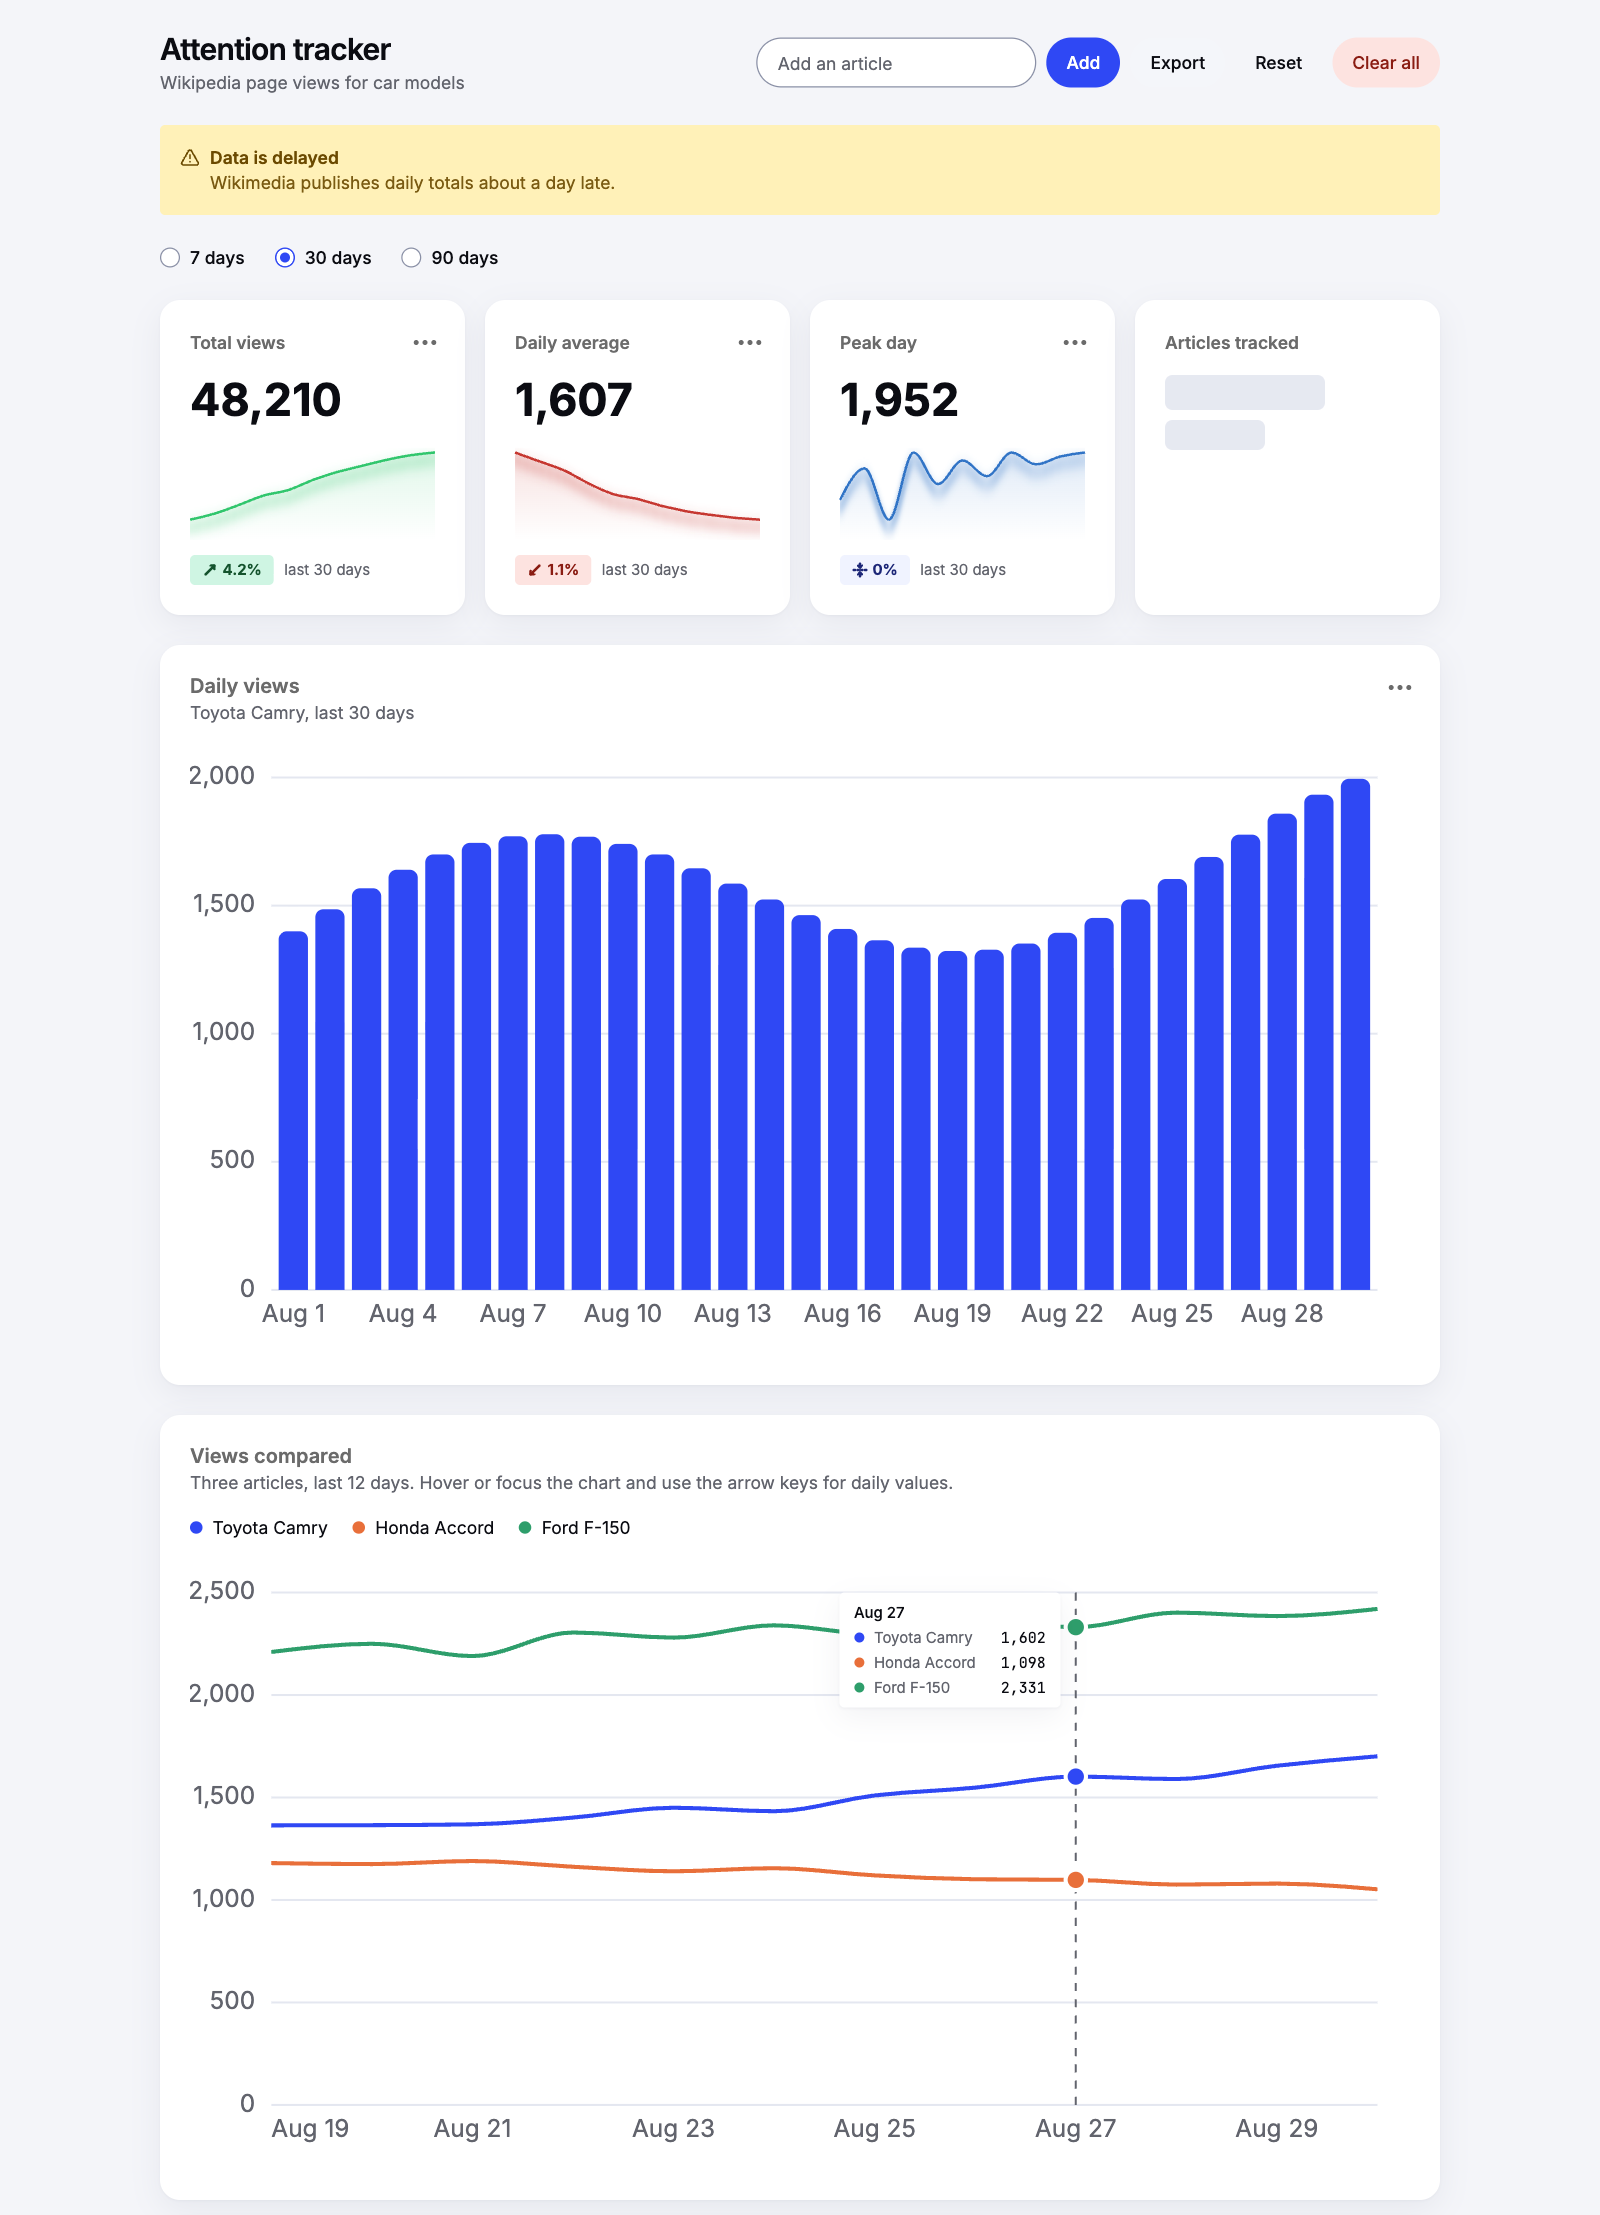
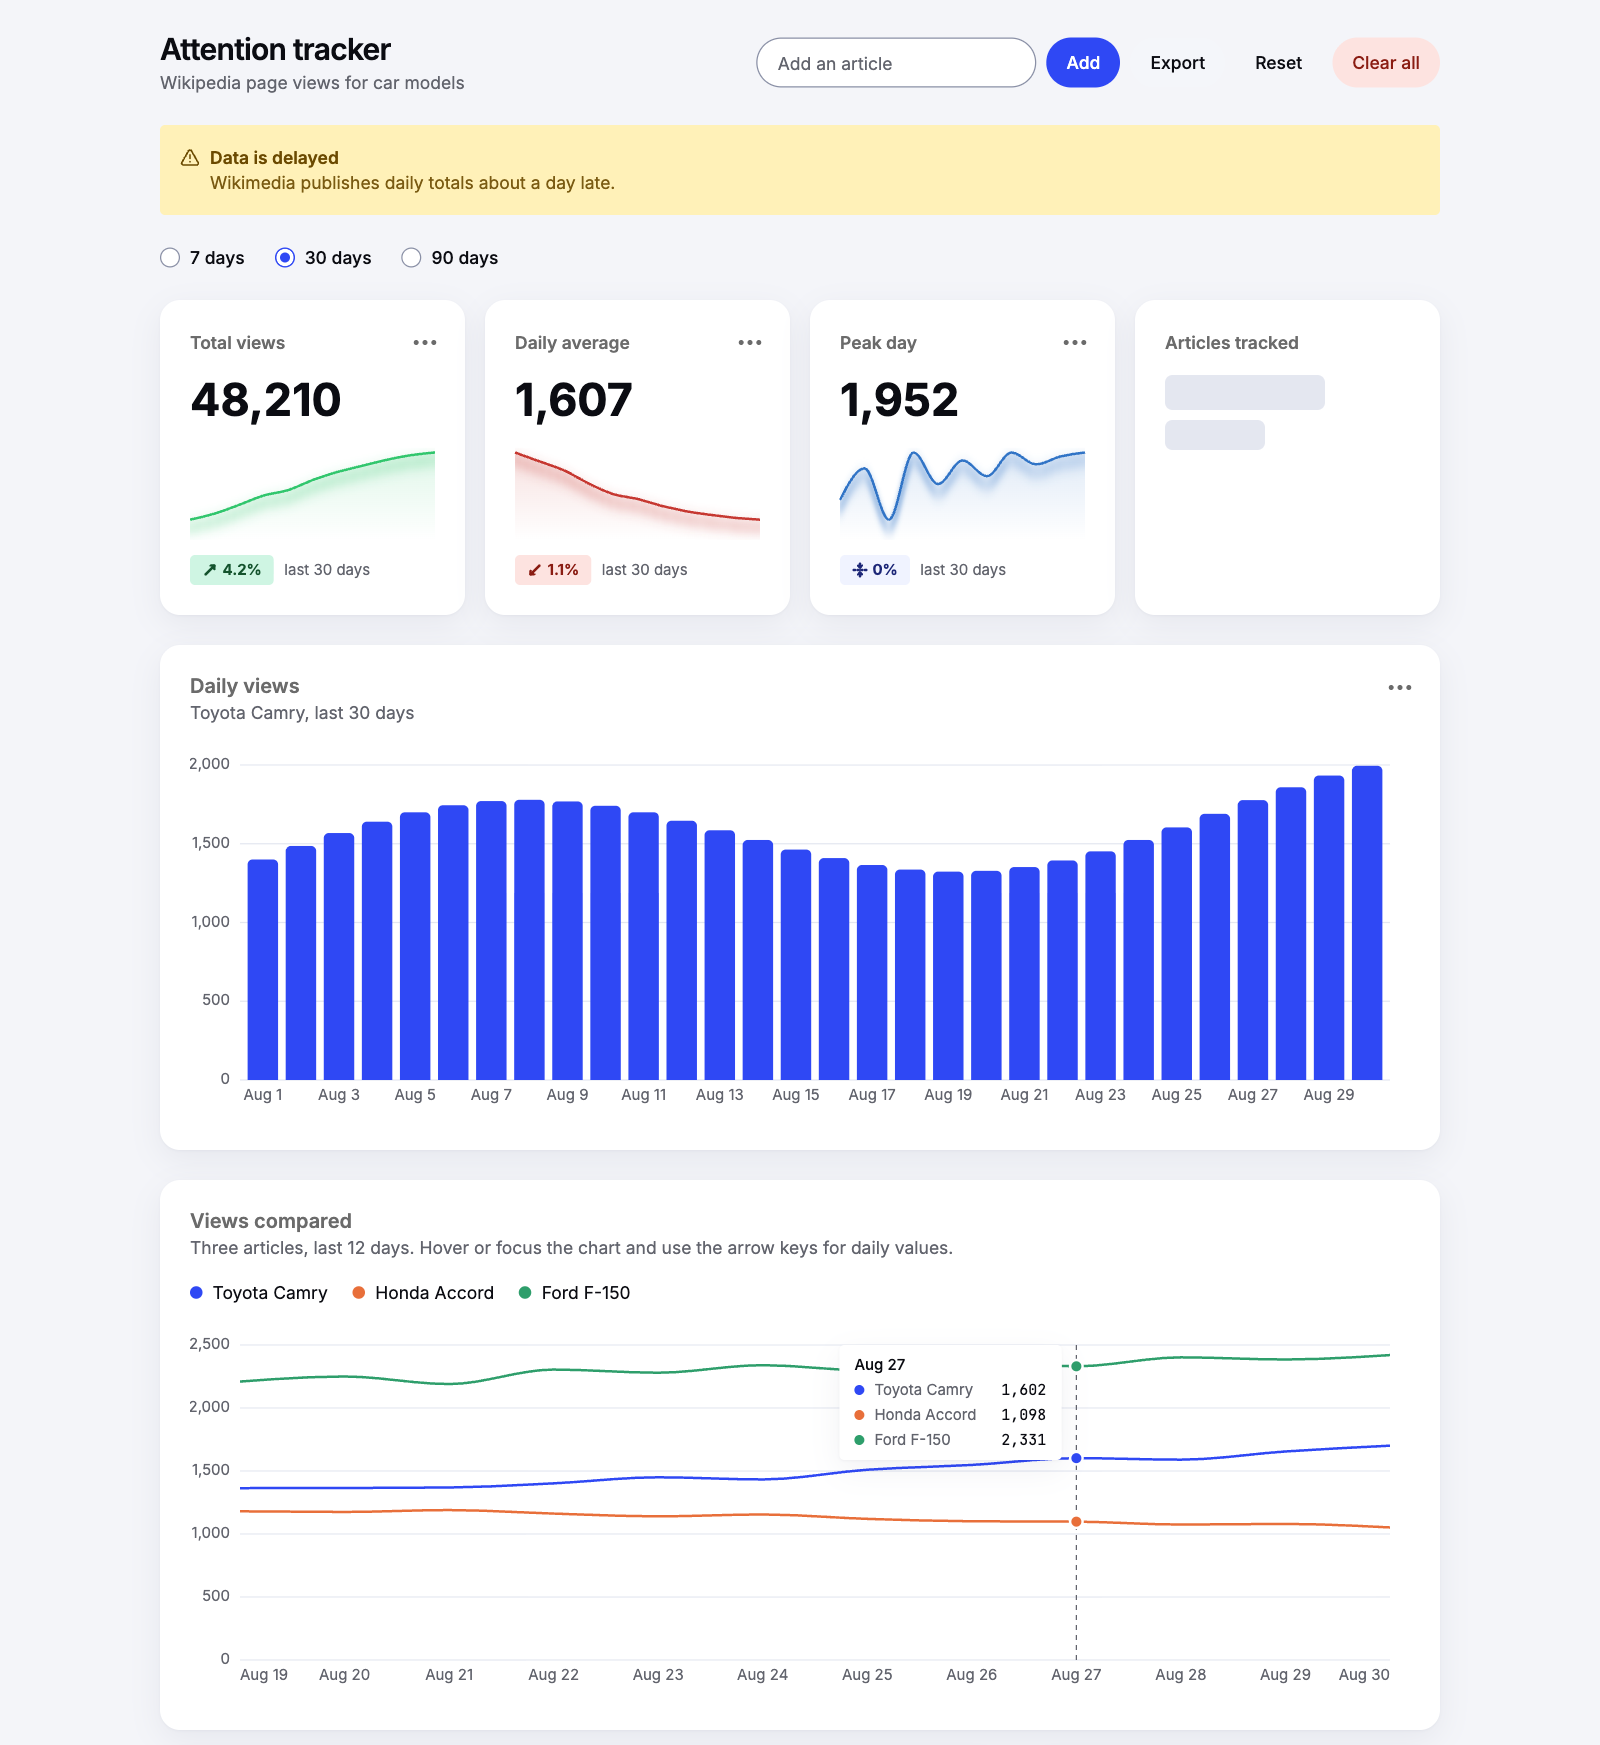
document responsive charts in the README and refresh the screenshot

diff --git a/README.md b/README.md
@@ -12,29 +12,29 @@ Built with React, TypeScript, Tailwind CSS v4, and class-variance-authority, doc
 
 ## Components
 
-| Component     | Notes                                                                                                                                                                         |
-| ------------- | ----------------------------------------------------------------------------------------------------------------------------------------------------------------------------- |
-| `Button`      | `primary`, `secondary`, `ghost`, `danger` variants, three sizes, loading state, ref forwarding                                                                                |
-| `Tabs`        | Compound component (`Tabs.List`, `Tabs.Trigger`, `Tabs.Content`) with `tablist`/`tab`/`tabpanel` roles, linked tabs and panels, arrow-key navigation, and an `activationMode` |
-| `Badge`       | Status variants for short labels                                                                                                                                              |
-| `Alert`       | Compound component (`Alert.Title`, `Alert.Description`), status icon per variant, `alert` vs `status` role by severity                                                        |
-| `Card`        | Compound component (`Card.Header`, `Card.Title`, `Card.Description`, `Card.Content`, `Card.Footer`) on the surface tokens                                                     |
-| `StatCard`    | Headline number built on `Card` and `Badge`, with an optional change (`delta`) whose direction and sentiment are separate, and an `isLoading` state                           |
-| `Table`       | Semantic table parts (`Table.Header`, `Table.Body`, `Table.Row`, `Table.Head`, `Table.Cell`, `Table.Caption`) with a scrolling container and `numeric` alignment              |
-| `Skeleton`    | Single-shape loading placeholder sized with `className`, hidden from assistive tech, animated only when motion is allowed                                                     |
-| `EmptyState`  | Compound component (`EmptyState.Icon`, `.Title`, `.Description`, `.Actions`) for "no data" and "no results" views                                                             |
-| `Input`       | Styled native text field with a forwarded ref, styled from `disabled`, `readOnly`, and `aria-invalid` instead of variants                                                     |
-| `Sparkline`   | Tiny D3-scaled line chart with a gradient area fill, gaps for missing values, and an optional accessible `label`                                                              |
-| `BarChart`    | D3-scaled bar chart with a y-axis, gridlines, thinned x labels, optional `formatValue`/`formatLabel`, and an accessible `label`                                               |
-| `LineChart`   | Several series over shared x labels, with a crosshair and tooltip on hover, arrow-key navigation, announced values, gaps for missing data, and `showPoints`                   |
-| `Combobox`    | Generic searchable select (WAI-ARIA combobox pattern) with keyboard support, filtering or async results, loading and empty states, controlled or uncontrolled                 |
-| `RadioGroup`  | One choice from a set, built on native radios, with option values inferred as a typed union                                                                                   |
-| `Legend`      | Swatches and labels that key a chart's series, colored with the same text color class as the series, with an optional value per item                                          |
-| `ProgressBar` | Labelled `progressbar` for shares and goals, in the chart colors, with `hideLabel`                                                                                            |
-| `Text`        | Body text on the type scale and text color tokens                                                                                                                             |
-| `Heading`     | `h1`–`h6` with the heading level kept separate from its visual size                                                                                                           |
+| Component     | Notes                                                                                                                                                                                                        |
+| ------------- | ------------------------------------------------------------------------------------------------------------------------------------------------------------------------------------------------------------ |
+| `Button`      | `primary`, `secondary`, `ghost`, `danger` variants, three sizes, loading state, ref forwarding                                                                                                               |
+| `Tabs`        | Compound component (`Tabs.List`, `Tabs.Trigger`, `Tabs.Content`) with `tablist`/`tab`/`tabpanel` roles, linked tabs and panels, arrow-key navigation, and an `activationMode`                                |
+| `Badge`       | Status variants for short labels                                                                                                                                                                             |
+| `Alert`       | Compound component (`Alert.Title`, `Alert.Description`), status icon per variant, `alert` vs `status` role by severity                                                                                       |
+| `Card`        | Compound component (`Card.Header`, `Card.Title`, `Card.Description`, `Card.Content`, `Card.Footer`) on the surface tokens                                                                                    |
+| `StatCard`    | Headline number built on `Card` and `Badge`, with an optional change (`delta`) whose direction and sentiment are separate, and an `isLoading` state                                                          |
+| `Table`       | Semantic table parts (`Table.Header`, `Table.Body`, `Table.Row`, `Table.Head`, `Table.Cell`, `Table.Caption`) with a scrolling container and `numeric` alignment                                             |
+| `Skeleton`    | Single-shape loading placeholder sized with `className`, hidden from assistive tech, animated only when motion is allowed                                                                                    |
+| `EmptyState`  | Compound component (`EmptyState.Icon`, `.Title`, `.Description`, `.Actions`) for "no data" and "no results" views                                                                                            |
+| `Input`       | Styled native text field with a forwarded ref, styled from `disabled`, `readOnly`, and `aria-invalid` instead of variants                                                                                    |
+| `Sparkline`   | Tiny D3-scaled line chart with a gradient area fill, gaps for missing values, and an optional accessible `label`                                                                                             |
+| `BarChart`    | D3-scaled bar chart that fills its container's width, with a `height` prop, a y-axis, gridlines, thinned x labels, optional `formatValue`/`formatLabel`, and an accessible `label`                           |
+| `LineChart`   | Several series over shared x labels that fill the container's width, with a crosshair and tooltip on hover, arrow-key navigation, announced values, gaps for missing data, a `height` prop, and `showPoints` |
+| `Combobox`    | Generic searchable select (WAI-ARIA combobox pattern) with keyboard support, filtering or async results, loading and empty states, controlled or uncontrolled                                                |
+| `RadioGroup`  | One choice from a set, built on native radios, with option values inferred as a typed union                                                                                                                  |
+| `Legend`      | Swatches and labels that key a chart's series, colored with the same text color class as the series, with an optional value per item                                                                         |
+| `ProgressBar` | Labelled `progressbar` for shares and goals, in the chart colors, with `hideLabel`                                                                                                                           |
+| `Text`        | Body text on the type scale and text color tokens                                                                                                                                                            |
+| `Heading`     | `h1`–`h6` with the heading level kept separate from its visual size                                                                                                                                          |
 
-Planned: a data-driven `DataTable` built on the `Table` parts, and `DescriptionList`. See the [roadmap](https://han-sen.github.io/tally-ui/?path=/story/project-roadmap--roadmap) for the full list. The charts use D3 only for scales and shape math and render the SVG with React, so they need no client-side DOM access.
+Planned: a data-driven `DataTable` built on the `Table` parts, and `DescriptionList`. See the [roadmap](https://han-sen.github.io/tally-ui/?path=/story/project-roadmap--roadmap) for the full list. The charts use D3 only for scales and shape math and render the SVG with React.
 
 ## Using the library
 
@@ -67,7 +67,7 @@ Fonts are not bundled. The tokens use `Inter Variable` and `JetBrains Mono Varia
 import { Button, StatCard, BarChart } from '@han-sen/tally-ui';
 ```
 
-Components that use React state (`Tabs`, `Combobox`, and the `Card` actions menu) are marked `'use client'`, so they work in Next.js App Router pages.
+Components that use React state (`Tabs`, `Combobox`, the `Card` actions menu, `LineChart`, and `BarChart`) are marked `'use client'`, so they work in Next.js App Router pages. The two charts measure their container in the browser, so the server renders an empty frame at the right height and the chart is drawn once it has a width.
 
 ## Getting started
 
@@ -86,7 +86,9 @@ npm run build:lib   # library build: dist/ with JS, type declarations, and CSS
 
 **Prefixed tokens, so they never collide.** Every variable and theme key carries the `tally` prefix (`--tally-primary`, `bg-tally-primary`, `rounded-tally-control`). Generic names like `--primary` or `bg-primary` are what shadcn/ui and many apps define themselves, and sharing them would silently change one set of colors when both are loaded. `tokens.css` also leaves fonts alone, so importing it never replaces an app's own font. The fonts live in a separate `fonts.css` that only the prebuilt stylesheet and Storybook use.
 
-**Glow is a token, not a prop.** Charts use a soft glow to lift a line off the surface, and `Sparkline` has a `glow` prop for it. Other components leave it out, but you can opt in with the `shadow-tally-glow` token and a shadow color class: `<Button className="shadow-tally-glow shadow-tally-primary/45">`. Tinted fills look best with `shadow-current/35`, which uses the element's text color.
+**Glow is a style, not a prop.** Charts use a soft glow to lift a line off the surface. `Sparkline` always draws it, at a strength set by the `--tally-chart-glow-opacity` token, so an app that doesn't want it sets the token to `0` once instead of passing a prop to every chart. Other components leave it out, but you can opt in with the `shadow-tally-glow` token and a shadow color class: `<Button className="shadow-tally-glow shadow-tally-primary/45">`. Tinted fills look best with `shadow-current/35`, which uses the element's text color.
+
+**Charts draw at their real size.** `LineChart` and `BarChart` measure their container with a `ResizeObserver` (the internal `useElementWidth` hook) and draw at its actual pixel width, so one SVG unit is one screen pixel. Text stays at the type scale's size, margins and strokes stay put, and x labels are thinned based on the real space available. Scaling a fixed `viewBox` would be simpler and work without client JavaScript, but text would grow and shrink with the card. Height comes from a `height` prop rather than from the container, because a container with no set height would collapse to whatever the chart is. `Sparkline` is the exception: it has no text, so stretching to fill its box is what it should do.
 
 **Variants with CVA.** Each element with variant logic gets its own `cva()` definition, kept in a separate `*.variants.ts` file so React Fast Refresh keeps working. Variant prop types are inferred from the definition rather than written by hand.
 
@@ -111,7 +113,7 @@ npm run build:lib   # library build: dist/ with JS, type declarations, and CSS
 - `Table`'s horizontal scroll container isn't keyboard-focusable on its own, so a wide table with no focusable content inside it can't be scrolled by keyboard.
 - `Card.Title` renders a `div`, so it doesn't appear in the page outline unless the caller adds `role="heading"` and `aria-level`.
 - `BarChart` exposes only its `label` to assistive tech. The per-bar tooltips are for mouse users, so a hidden data table is still to do. It assumes non-negative values and unique labels.
-- `BarChart` draws in a fixed 600 by 300 coordinate space, so its text scales with the chart instead of measuring the container.
+- `LineChart` and `BarChart` are client components. Without JavaScript, or until the page hydrates, they show an empty frame of the right height with the chart's accessible name.
 - Dark mode isn't implemented yet, and the status colors are provisional until more components exist.
 
 ## Testing
